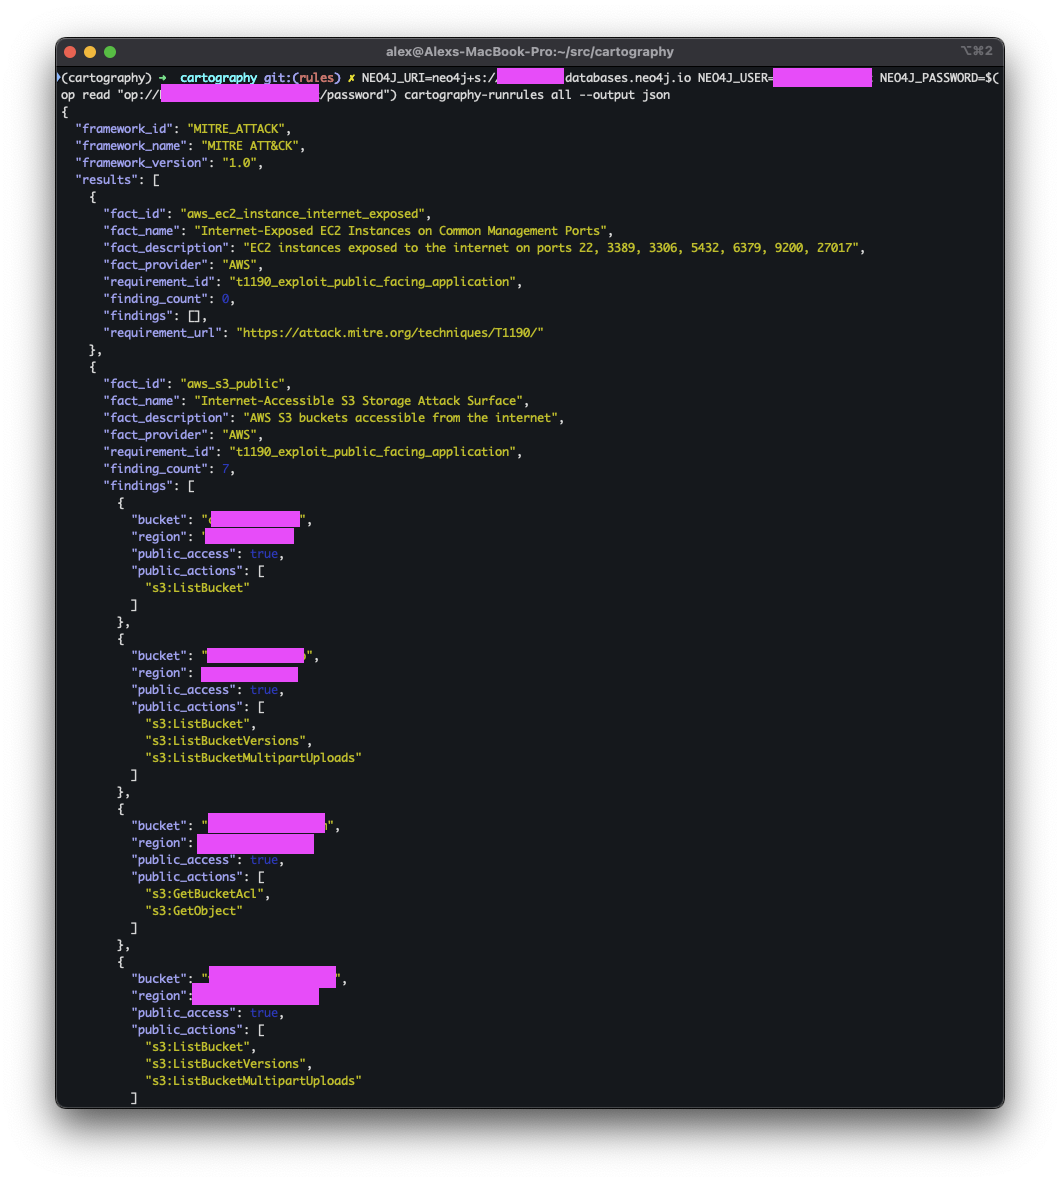
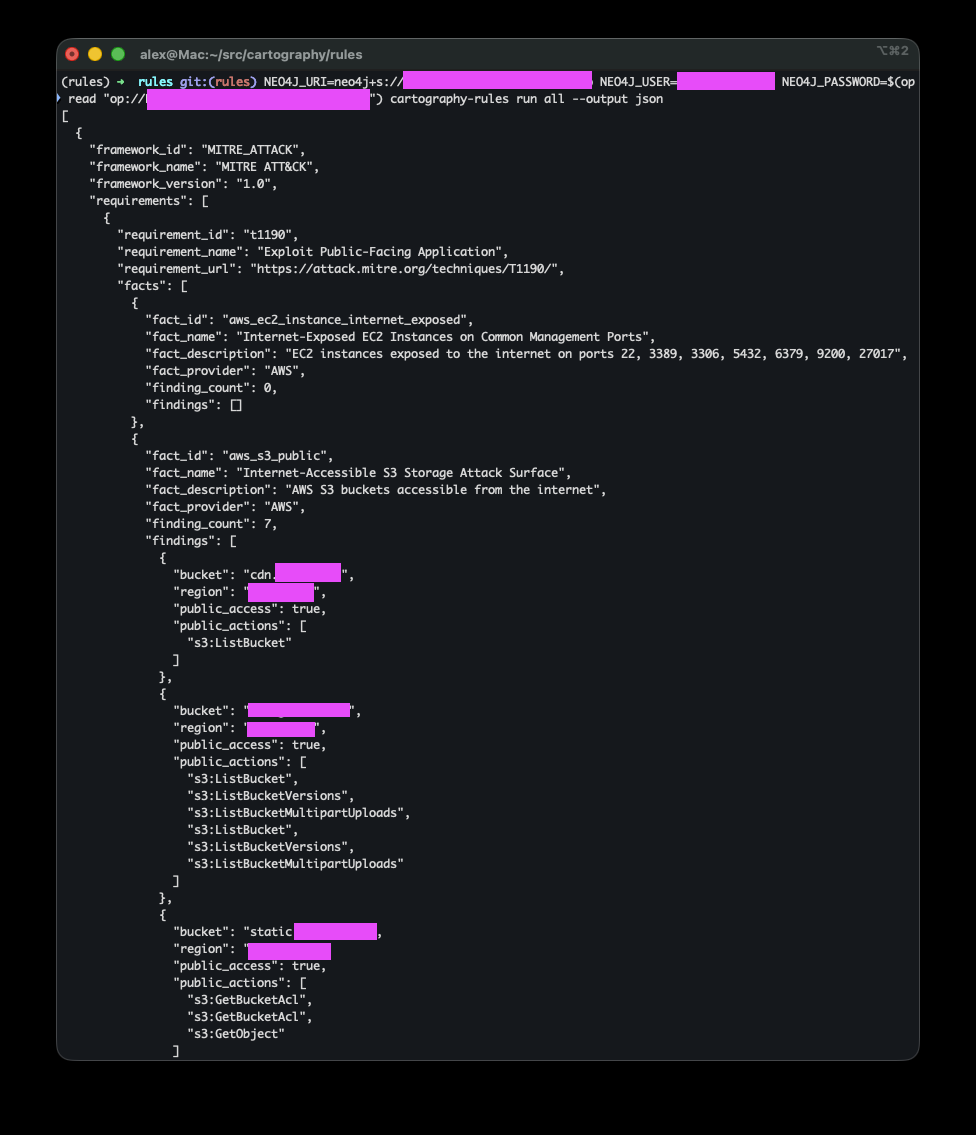
better rules docs

diff --git a/docs/root/usage/rules.md b/docs/root/usage/rules.md
@@ -1,35 +1,55 @@
 # Cartography Rules
 
-With the `cartography-rules` command, we provide a set of pre-defined queries that let you evaluate your environment against common security frameworks, along with community-curated rules.
+Cartography Rules is a query library for your Cartography graph.
+
+With the `cartography-rules` CLI, you can:
+- Run pre-defined queries based on frameworks like [MITRE ATT&CK](https://attack.mitre.org/)
+- Explore and contribute community rules
+- Build custom queries for your own environment
 
 
-## Our opinionated approach
+## Design
 
-These rules are designed from an attacker’s perspective. For each framework technique, we ask: "What does an attacker actually need to execute this technique?"
+These rules are designed from an attacker’s perspective. For each framework technique, we ask: “What does an attacker actually need to execute this technique?”
 
-Our queries surface opportunities that enable attacks at all stages of the kill chain: initial access, lateral movement, data exfiltration, and beyond.
+The queries surface opportunities across the entire kill chain: initial access, lateral movement, privilege escalation, data exfiltration, persistence.
 
-**What we don’t do**: impose thresholds or arbitrary expectations.
-Every organization has different risk tolerances. Saying “you should have at most 5 admin roles” is overly simplistic and rarely useful.
-
-Instead, we focus on providing _facts_ and context so you can make your own informed decisions about your environment.
-- If a query returns no results, you’ve successfully eliminated obvious attack opportunities for that technique.
-- If it does return findings, you now have a clear list of potential targets for attackers.
+We don’t impose arbitrary thresholds like “no more than 5 admins” because every organization has different risk tolerances. Instead, we surface facts:
+- If a query returns no results, you’ve eliminated obvious attack paths for that technique.
+- If it returns findings, you now have a clear list of potential attacker targets.
 
 
-## Why do it this way
+## Rationale
 
-For some organizations, showing an EC2 security group that allows inbound internet traffic from the public internet even if there are no compute instances attached to it may be useful because someone in the future may attach a compute instance to it. For others, this is noise.
+Security isn't one-size-fits-all. For example, an EC2 security group open to the internet may be risky for some orgs even if it isn’t attached to an instance (someone could attach one later). For other orgs, that’s irrelevant noise.
 
-Our goal is to build a comprehensive set of facts that can extract the full picture of your environment.
+Similarly, IAM roles trusted across multiple accounts or S3 buckets with public access may or may not be material risks depending on your use case.
 
+Our goal is to surface facts in context so you can decide what matters for your environment.
+
+## Supported Rules
+
+Currently rules cover:
+
+- [MITRE ATT&CK](https://attack.mitre.org/)
+
+You can list all available frameworks and techniques from the CLI, see [below](#list).
+
+
+.. note::
+   Rules query against the existing Cartography graph. They don’t write data; they return findings you can view in text, JSON, or the Neo4j Browser.
 
 ## Setup
+
+Make sure you've run Cartography and have data in Neo4j.
+
+Then configure your Neo4j connection:
+
 
 ```bash
 export NEO4J_URI=bolt://localhost:7687 # or your Neo4j URI
 export NEO4J_USER=neo4j # or your username
-export NEO4J_DATABASE=neo4j
+export NEO4J_DATABASE=neo4j # or your database name
 
 # Store the Neo4j password in an environment variable. You can name this anything you want.
 
@@ -38,42 +58,95 @@ export NEO4J_PASSWORD=password
 set -o history # turn shell history back on
 ```
 
+## Quick start
+
+1. List all frameworks
+    ```bash
+    cartography-rules list
+    ```
+1. List techniques for MITRE ATT&CK
+    ```bash
+    cartography-rules list mitre-attack
+    ```
+1. Run a specific technique
+    ```bash
+    cartography-rules run mitre-attack t1190
+    ```
+    Sample output:
+    ```
+    Fact 1/4: Internet-Exposed EC2 Instances on Common Management Ports
+    Framework:   MITRE ATT&CK
+    Requirement: t1190 - Exploit Public-Facing Application
+    Fact ID:     aws_ec2_instance_internet_exposed
+    Description: EC2 instances exposed to the internet on ports 22, 3389, 3306, 5432, 6379, 9200, 27017
+    Provider:    AWS
+    Neo4j Query: Click to run visual query
+    Results:     No items found
+
+    Fact 2/4: Internet-Accessible S3 Storage Attack Surface
+    Framework:   MITRE ATT&CK
+    Requirement: t1190 - Exploit Public-Facing Application
+    Fact ID:     aws_s3_public
+    Description: AWS S3 buckets accessible from the internet
+    Provider:    AWS
+    Neo4j Query: Click to run visual query
+    Results:     7 item(s) found
+        Sample results:
+        1. bucket=cdn.example.com, region=us-east-1, public_access=True, public_actions=['s3:ListBucket']
+        2. bucket=mybucket.example.com, region=us-east-1, public_access=True, public_actions=['s3:ListBucket', 's3:ListBucketVersions', 's3:...
+        3. bucket=static.example.com, region=us-east-1, public_access=True, public_actions=['s3:GetBucketAcl', 's3:GetBucketAcl', 's3:GetO...
+        ... and 4 more (use --output json to see all)
+    ...
+    ```
+
+
 ## Usage
 
 ### `list`
-See available frameworks
+#### See available frameworks
 ```bash
 cartography-rules list
 ```
 
-See available requirements for a framework
+#### See available requirements for a framework
 ```bash
 cartography-rules list mitre-attack
 ```
 
-See available facts for a requirement
+#### See available facts for a requirement
 ```bash
 cartography-rules list mitre-attack t1190
 ```
 
 ### `run`
 
-Run all frameworks
+#### Run all frameworks in text mode
 ```bash
 cartography-rules run all
+# or
+cartography-rules run all --output text
+```
+![cartography-rules-run-all-text.png](../images/rules-text-output.png)
+
+
+#### Run all frameworks in JSON mode
+```bash
+cartography-rules run all --output json
 ```
 
-Run a specific framework
+![cartography-rules-run-all-json.png](../images/rules-json-output.png)
+
+#### Run a specific framework
 ```bash
 cartography-rules run mitre-attack
 ```
 
-Run a specific requirement on a framework
+#### Run a specific requirement on a framework
 ```bash
 cartography-rules run mitre-attack t1190
 ```
 
-Run a specific fact on a requirement
+#### Run a specific fact on a requirement
 
 ```bash
 cartography-rules run mitre-attack t1190 aws_rds_public_access
@@ -82,20 +155,16 @@ cartography-rules run mitre-attack t1190 aws_rds_public_access
 
 ### Authentication Options
 
-Use a custom environment variable for the password:
+#### Use a custom environment variable for the password:
 ```bash
 cartography-rules run mitre-attack --neo4j-password-env-var MY_NEO4J_PASSWORD
 ```
 
-Use interactive password prompt:
+#### Use interactive password prompt:
 ```bash
 cartography-rules run mitre-attack --neo4j-password-prompt
 ```
 
-Run a specific framework and output as JSON
-```bash
-cartography-rules run mitre-attack --output json
-```
 
 ### Tab completion
 
@@ -112,3 +181,9 @@ cartography-rules run <TAB>
 ```
 
 and then it will show you all the available frameworks.
+
+## Next steps
+
+- Explore the rules against your graph
+- Submit a pull request to contribute your own rules to the community; PRs welcome ❤
+- Use JSON output to integrate this with your existing tools
